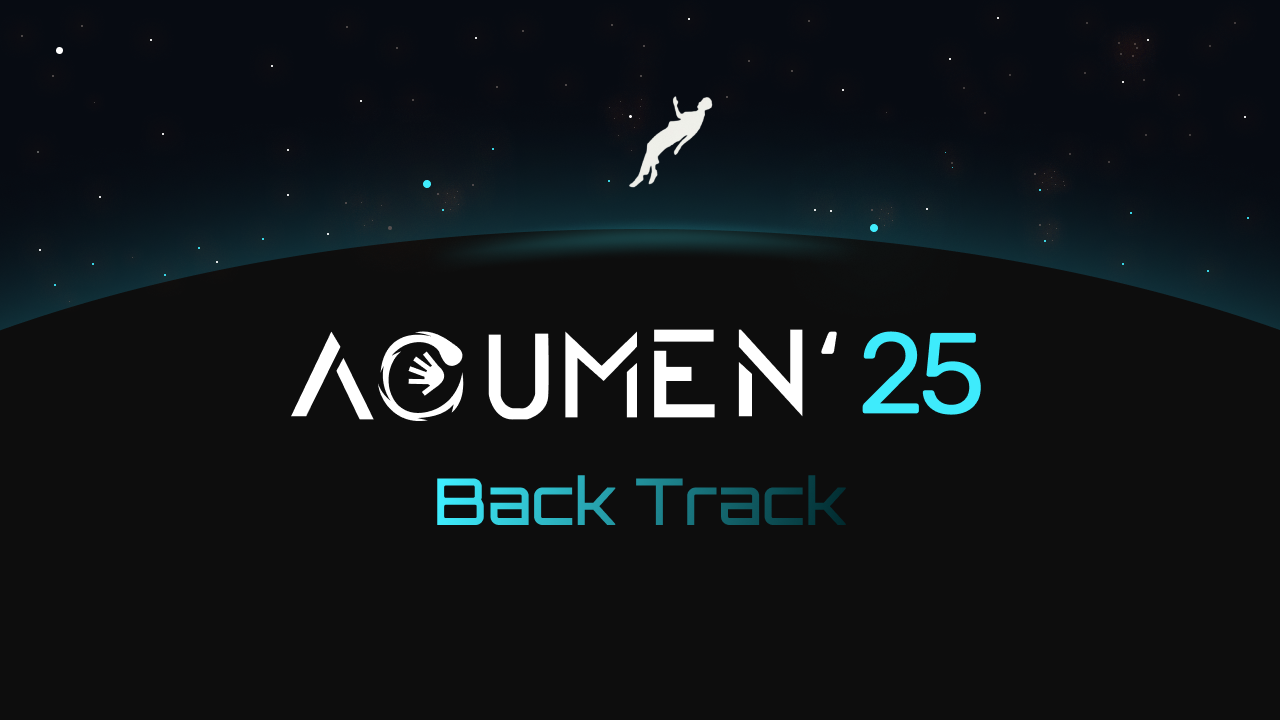
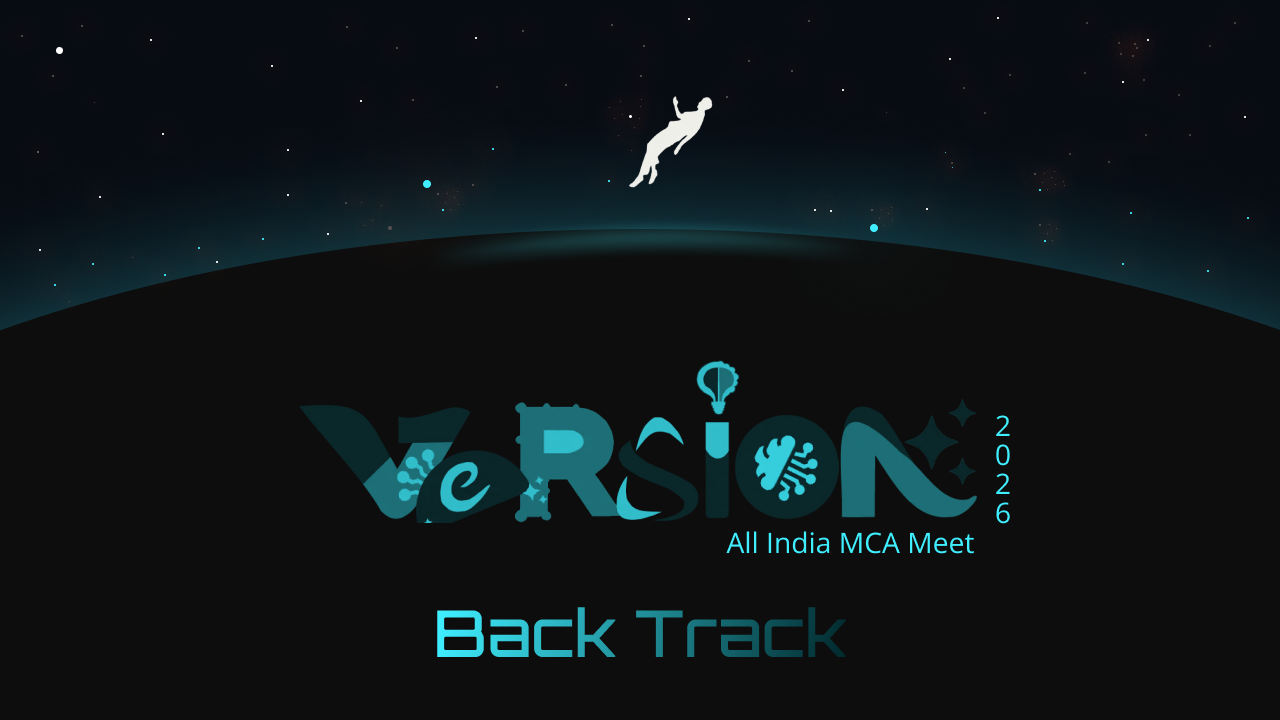
ready for version

Changed region(s): [[0.2188, 0.4583, 0.7812, 0.7639], [0.3438, 0.825, 0.6562, 0.9167]]

diff --git a/frontend/src/app/page.tsx b/frontend/src/app/page.tsx
@@ -59,7 +59,7 @@ export default function HomePage() {
             <p
               className={`${orbitron.className} text-sm sm:text-base uppercase tracking-[0.35em] text-indigo-300/90 font-bold drop-shadow-[0_1px_2px_rgba(0,0,0,0.85)]`}
             >
-              Presented by ACM NIT Trichy
+              Presented by VERSION NIT Trichy
             </p>
 
             <h1
